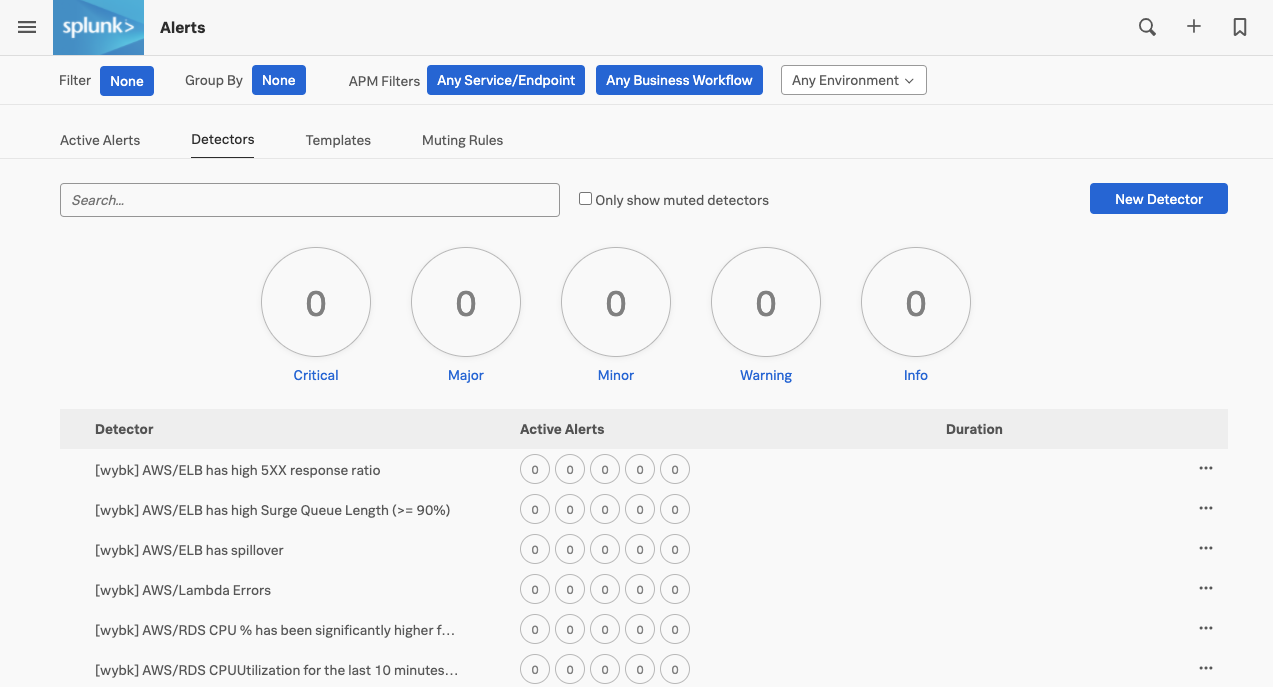
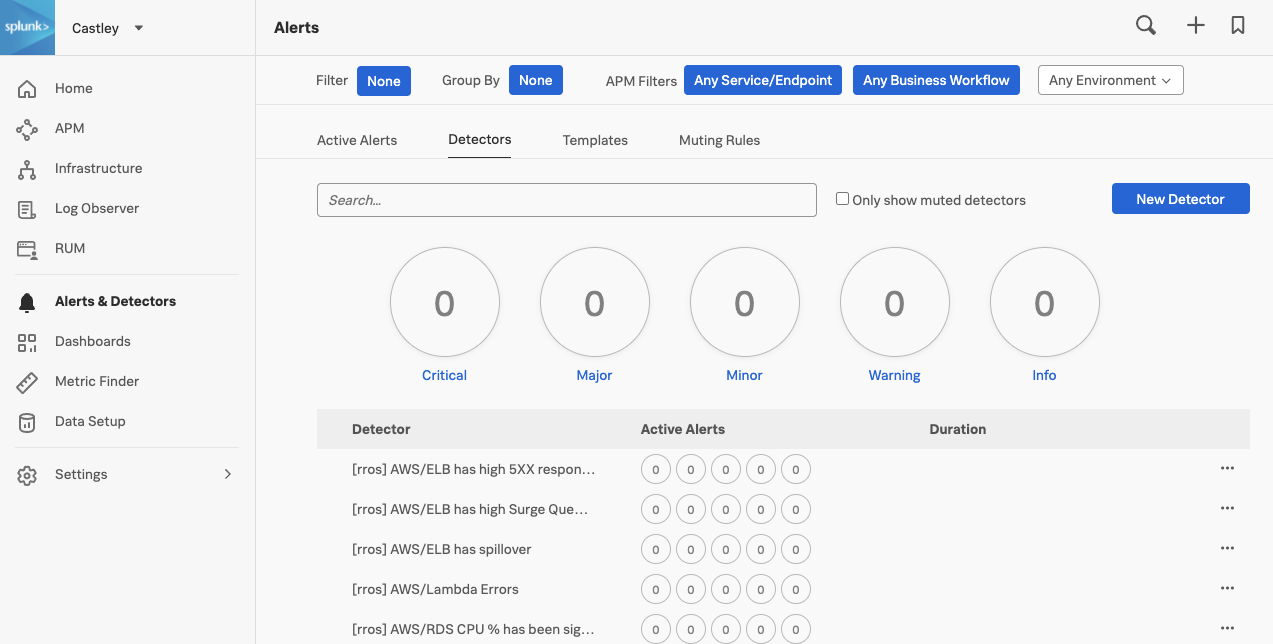
Updated screenshots for new UI

diff --git a/docs/monitoring-as-code/terraform.md b/docs/monitoring-as-code/terraform.md
@@ -13,9 +13,7 @@ Monitoring as code adopts the same approach as infrastructure as code. You can m
 
 You can monitoring as code to build out your visualisations, what to monitor, and when to alert, among other things. This means your monitoring setup, processes, and rules can be versioned, shared, and reused.
 
-Full documentation for the Splunk Terraform Provider is available [here](https://registry.terraform.io/providers/splunk-terraform/signalfx/latest/docs).
-
-Remaining in your AWS/EC2 instance, change into the `signalfx-jumpstart` directory
+Full documentation for the Splunk Terraform Provider is available [here](https://registry.terraform.io/providers/splunk-terraform/signalfx/latest/docs). Remaining in your AWS/EC2 instance, change into the `signalfx-jumpstart` directory
 
 === "Shell Command"
 
@@ -62,8 +60,8 @@ Initialize Terraform and upgrade to the latest version of the Splunk Terraform P
 
     Initializing provider plugins...
     - Finding latest version of splunk-terraform/signalfx...
-    - Installing splunk-terraform/signalfx v6.7.3...
-    - Installed splunk-terraform/signalfx v6.7.3 (signed by a HashiCorp partner, key ID 8B5755E223754FC9)
+    - Installing splunk-terraform/signalfx v6.7.10...
+    - Installed splunk-terraform/signalfx v6.7.10 (signed by a HashiCorp partner, key ID 8B5755E223754FC9)
 
     Partner and community providers are signed by their developers.
     If you'd like to know more about provider signing, you can read about it here:
@@ -131,7 +129,7 @@ Due to this being a workshop it is required that the prefix is to be unique so y
     Apply complete! Resources: 92 added, 0 changed, 0 destroyed.
     ```
 
-Once the apply has completed, validate that the detectors were created, under the **Alerts → Detectors**. They will be prefixed by the hostname of your instance. To check the prefix value run:
+Once the apply has completed, validate that the detectors were created, under the **Alerts & Detectors** and click on the **Detectors** tab. They will be prefixed by the hostname of your instance. To check the prefix value run:
 
 === "Shell Command"
 
